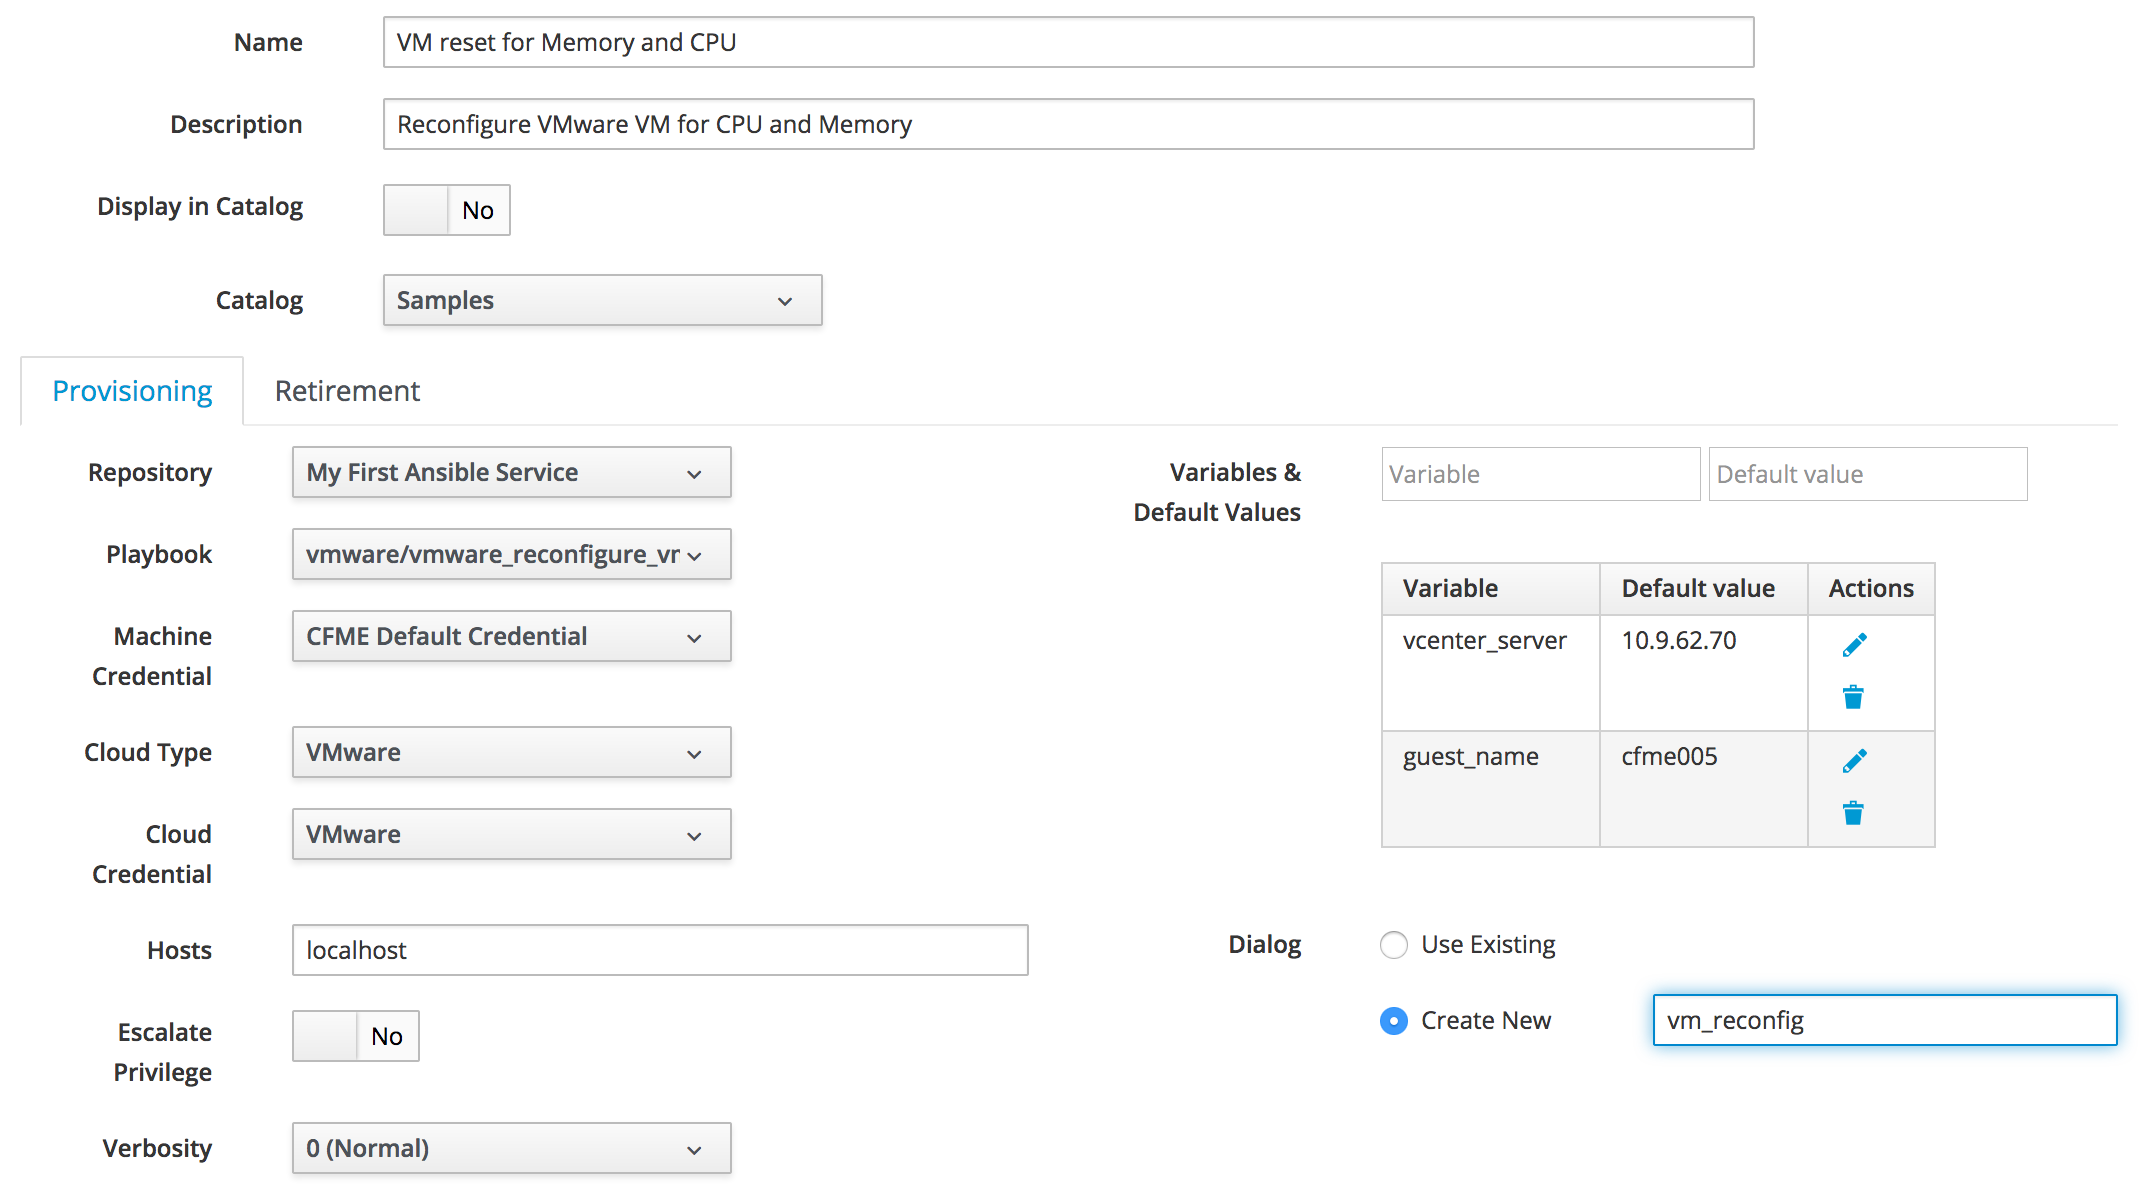
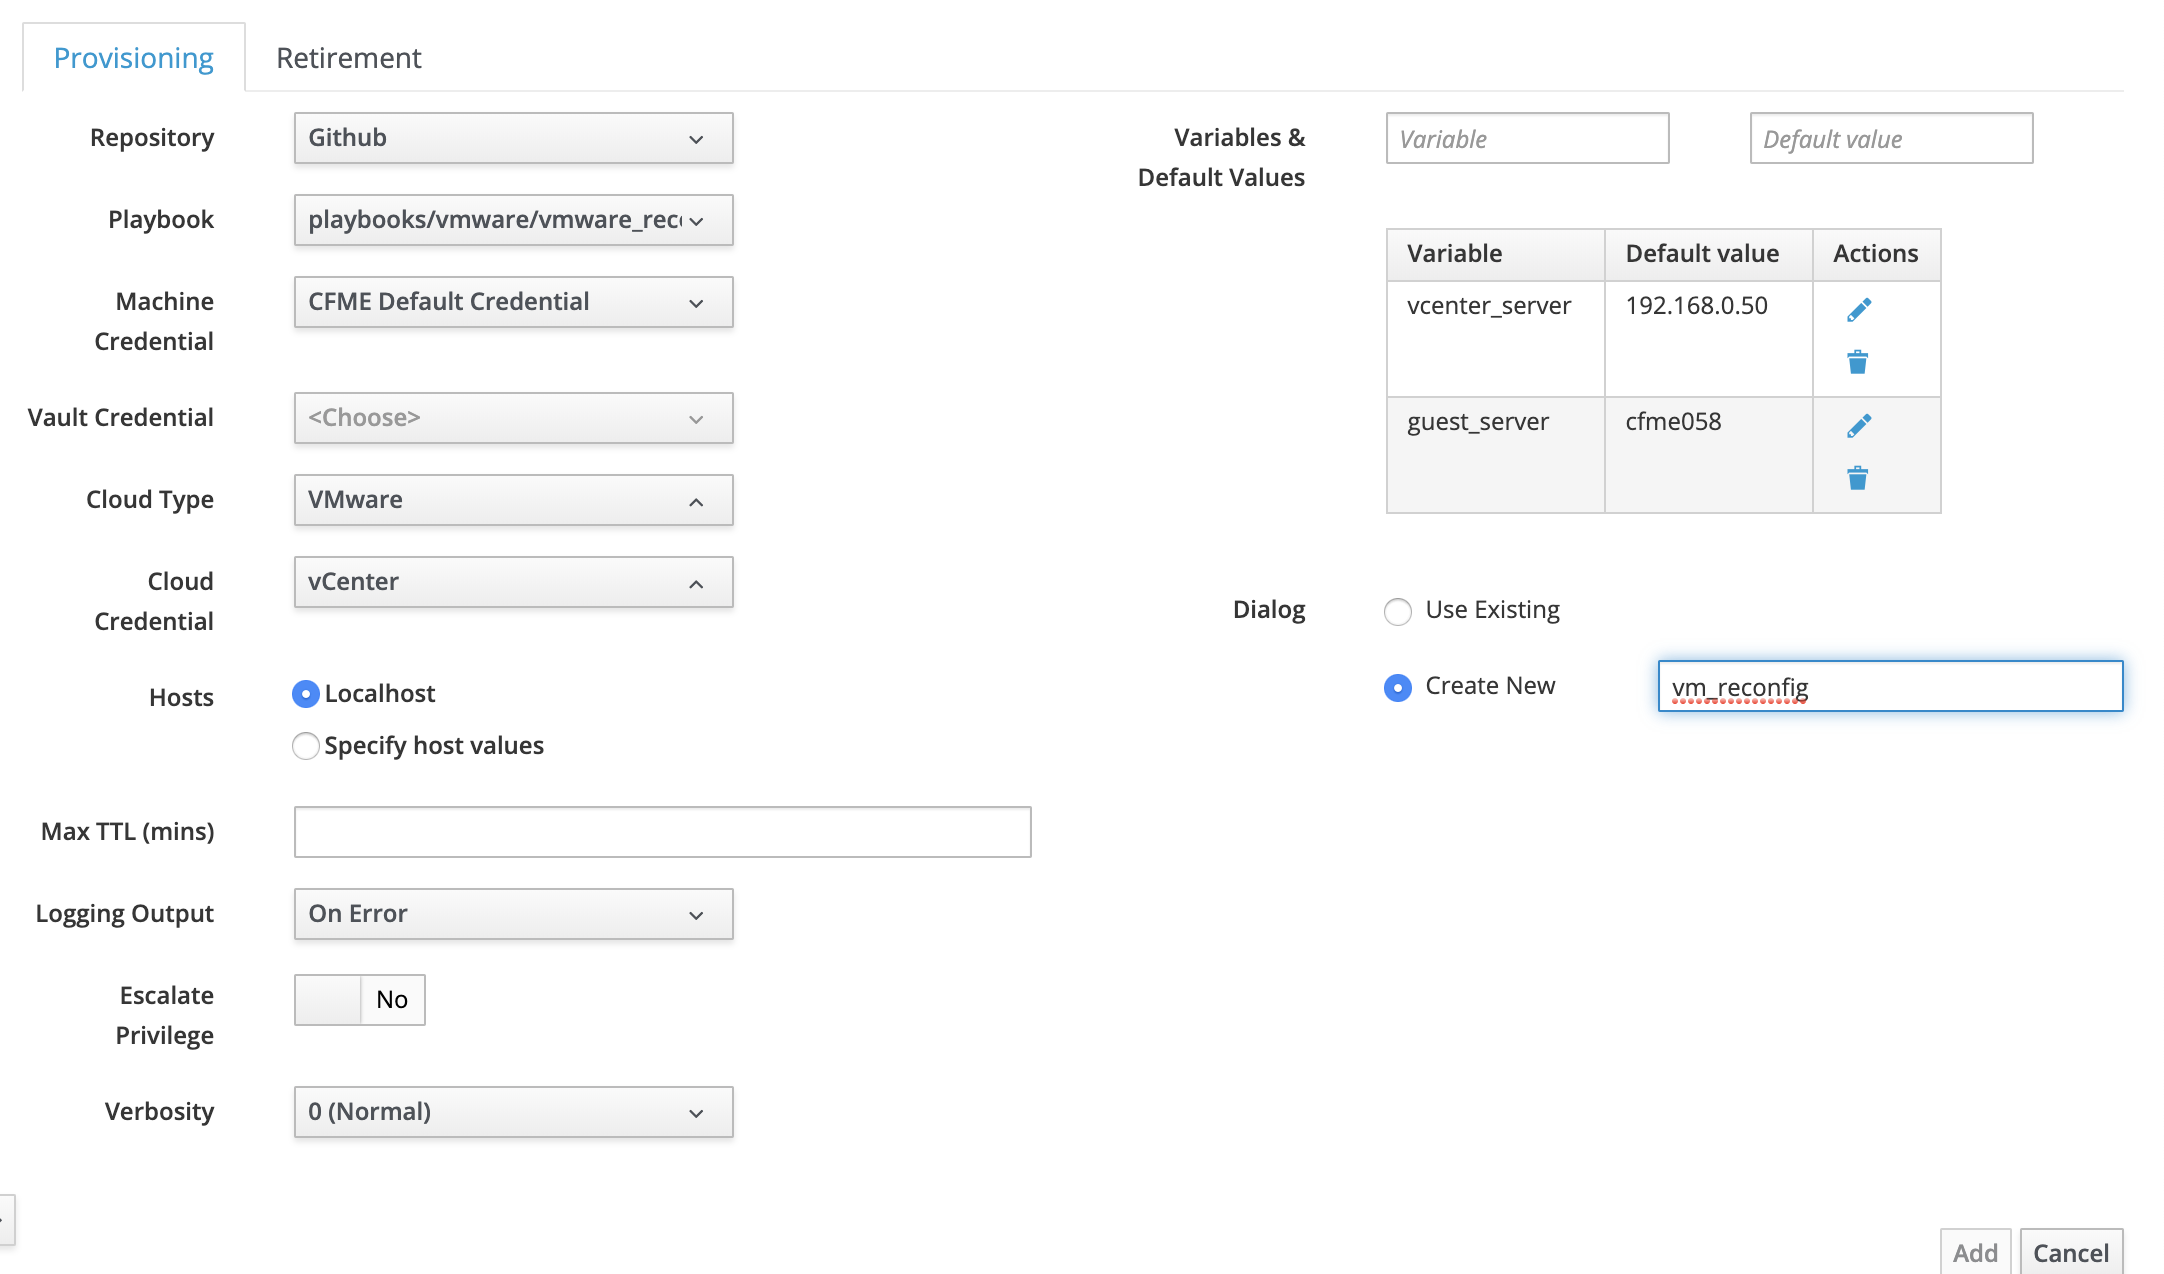
update lab

diff --git a/cloudforms+ansible101/lab/index.md b/cloudforms+ansible101/lab/index.md
@@ -3,39 +3,39 @@
 <!-- TOC depthFrom:1 depthTo:6 withLinks:1 updateOnSave:1 orderedList:0 -->
 
 - [Lab Introduction](#lab-introduction)
-	- [Introduction to CloudForms](#introduction-to-cloudforms)
-	- [Access the lab environment](#access-the-lab-environment)
-	- [Setting up the environment](#setting-up-the-environment)
-		- [Environment architecture](#environment-architecture)
-		- [Set up CloudForms](#set-up-cloudforms)
-		- [Add the VMware Provider](#add-the-vmware-provider)
-	- [CloudForms with Ansible](#cloudforms-with-ansible)
-		- [Introduction to Ansible](#introduction-to-ansible)
-		- [Make sure embedded Ansible role is enabled and running](#make-sure-embedded-ansible-role-is-enabled-and-running)
-		- [Add a Git repository of Ansible Playbooks](#add-a-git-repository-of-ansible-playbooks)
-		- [Add vCenter credentials](#add-vcenter-credentials)
-		- [Verify repository sync](#verify-repository-sync)
-		- [Install pyvmomi](#install-pyvmomi)
-		- [Build a Service Catalog to create and delete users](#build-a-service-catalog-to-create-and-delete-users)
-		- [Create a Service Catalog for Ansible Playbooks](#create-a-service-catalog-for-ansible-playbooks)
-		- [Create a Service Catalog Item for the Playbook](#create-a-service-catalog-item-for-the-playbook)
-		- [Order the "create user" Service Catalog Item](#order-the-create-user-service-catalog-item)
-		- [Monitor create user Playbook execution](#monitor-create-user-playbook-execution)
-		- [Verify Playbook results](#verify-playbook-results)
-		- [Build a Service Catalog to deploy Virtual Machines](#build-a-service-catalog-to-deploy-virtual-machines)
-		- [Order the Virtual Machine Provisioning Service Catalog Item](#order-the-virtual-machine-provisioning-service-catalog-item)
-		- [Monitor VM provisioning Playbook execution](#monitor-vm-provisioning-playbook-execution)
-	- [Policies and Ansible](#policies-and-ansible)
-		- [Creating the Service](#creating-the-service)
-		- [Create a Service Catalog Item for the policy Playbook](#create-a-service-catalog-item-for-the-policy-playbook)
-		- [Creating Control Action](#creating-control-action)
-		- [Create VM Control Policy](#create-vm-control-policy)
-		- [Setting Event Assignment](#setting-event-assignment)
-		- [Setting Control Action on Event](#setting-control-action-on-event)
-		- [Creating and Assigning Policy Profile](#creating-and-assigning-policy-profile)
-		- [Assign the policy profile](#assign-the-policy-profile)
-		- [Testing the Policy Profile](#testing-the-policy-profile)
-	- [Even more](#even-more)
+  - [Introduction to CloudForms](#introduction-to-cloudforms)
+  - [Access the lab environment](#access-the-lab-environment)
+  - [Setting up the environment](#setting-up-the-environment)
+    - [Environment architecture](#environment-architecture)
+    - [Set up CloudForms](#set-up-cloudforms)
+    - [Add the VMware Provider](#add-the-vmware-provider)
+  - [CloudForms with Ansible](#cloudforms-with-ansible)
+    - [Introduction to Ansible](#introduction-to-ansible)
+    - [Make sure embedded Ansible role is enabled and running](#make-sure-embedded-ansible-role-is-enabled-and-running)
+    - [Add a Git repository of Ansible Playbooks](#add-a-git-repository-of-ansible-playbooks)
+    - [Add vCenter credentials](#add-vcenter-credentials)
+    - [Verify repository sync](#verify-repository-sync)
+    - [Install pyvmomi](#install-pyvmomi)
+    - [Build a Service Catalog to create and delete users](#build-a-service-catalog-to-create-and-delete-users)
+    - [Create a Service Catalog for Ansible Playbooks](#create-a-service-catalog-for-ansible-playbooks)
+    - [Create a Service Catalog Item for the Playbook](#create-a-service-catalog-item-for-the-playbook)
+    - [Order the &quot;create user&quot; Service Catalog Item](#order-the-quotcreate-userquot-service-catalog-item)
+    - [Monitor create user Playbook execution](#monitor-create-user-playbook-execution)
+    - [Verify Playbook results](#verify-playbook-results)
+    - [Build a Service Catalog to deploy Virtual Machines](#build-a-service-catalog-to-deploy-virtual-machines)
+    - [Order the Virtual Machine Provisioning Service Catalog Item](#order-the-virtual-machine-provisioning-service-catalog-item)
+    - [Monitor VM provisioning Playbook execution](#monitor-vm-provisioning-playbook-execution)
+  - [Policies and Ansible](#policies-and-ansible)
+    - [Creating the Service](#creating-the-service)
+    - [Create a Service Catalog Item for the policy Playbook](#create-a-service-catalog-item-for-the-policy-playbook)
+    - [Creating Control Action](#creating-control-action)
+    - [Create VM Control Policy](#create-vm-control-policy)
+    - [Setting Event Assignment](#setting-event-assignment)
+    - [Setting Control Action on Event](#setting-control-action-on-event)
+    - [Creating and Assigning Policy Profile](#creating-and-assigning-policy-profile)
+    - [Assign the policy profile](#assign-the-policy-profile)
+    - [Testing the Policy Profile](#testing-the-policy-profile)
+  - [Even more](#even-more)
 
 <!-- /TOC -->
 
@@ -326,6 +326,8 @@ To be able to run Ansible Playbooks, they have to become available in CloudForms
 ### Add vCenter credentials
 
 For one of the following labs, the Playbook needs to be able to log into the vCenter provider. For this to work, we need to store the necessary credentials.
+
+***Note*** If you have issues, please, logout and log back in to Add the vCenter credentials
 
 1. Navigate to ***Automation*** -> ***Ansible*** -> ***Credentials***
 
@@ -723,11 +725,11 @@ First we need to create a Catalog to store the service in, do this by clicking S
 
     ***Display in Catalog:*** No (uncheck the box)
 
-    ***Catalog:*** Ansible
+    ***Catalog:*** MyCompany/Ansible
 
     ***Repository:*** Github
 
-    ***Playbook:*** vmware_reconfigure_vm.yml
+    ***Playbook:*** playbooks/vmware/vmware_reconfigure_vm.yml
 
     ***Machine Credentials:*** CFME Default Credentials
 
@@ -824,7 +826,7 @@ First we need to create a Catalog to store the service in, do this by clicking S
 
 ### Setting Control Action on Event
 
-1. Click on the Event that is now save to the policy
+1. Click on the Event that is now saved to the policy
 
     ![event](img/event.png)
 
